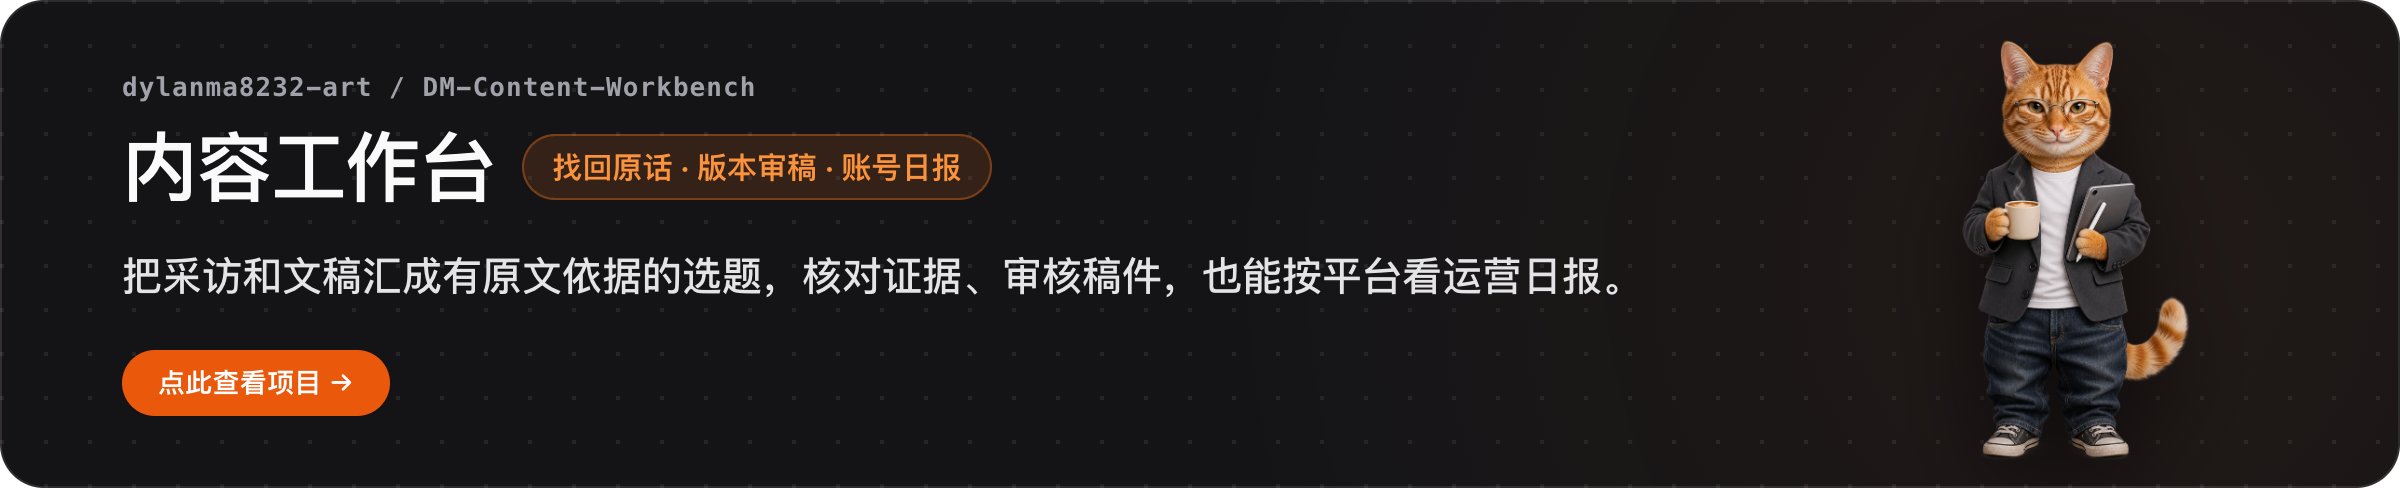
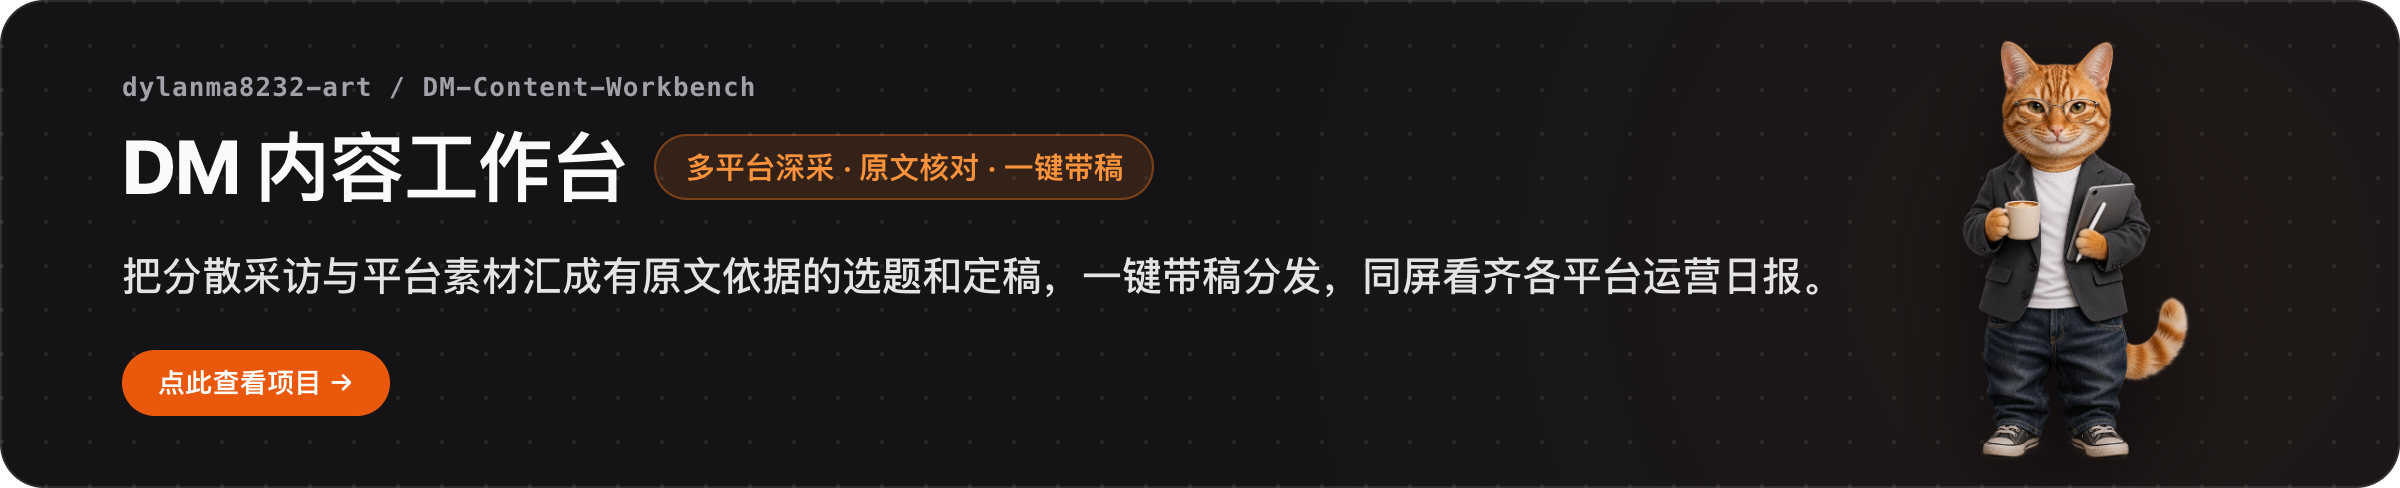
docs(profile): refresh DM-Content-Workbench v2.0 project card

Changed region(s): [[0.0625, 0.5225, 0.75, 0.6148], [0.0312, 0.2766, 0.5, 0.4303]]

diff --git a/README.md b/README.md
@@ -28,8 +28,8 @@
 </p>
 
 <p>
-  <a href="https://github.com/dylanma8232-art/DM-Content-Workbench#gh-light-mode-only"><img alt="内容工作台（找回原话 · 版本审稿 · 账号日报）— 把采访和文稿汇成有原文依据的选题，核对证据、审核稿件，也能按平台看运营日报。" src="assets/cards/card-content-workbench-light.png#gh-light-mode-only" width="100%"></a>
-  <a href="https://github.com/dylanma8232-art/DM-Content-Workbench#gh-dark-mode-only"><img alt="内容工作台（找回原话 · 版本审稿 · 账号日报）— 把采访和文稿汇成有原文依据的选题，核对证据、审核稿件，也能按平台看运营日报。" src="assets/cards/card-content-workbench-dark.png#gh-dark-mode-only" width="100%"></a>
+  <a href="https://github.com/dylanma8232-art/DM-Content-Workbench#gh-light-mode-only"><img alt="DM 内容工作台（多平台深采 · 原文核对 · 一键带稿）— 把分散采访与平台素材汇成有原文依据的选题和定稿，一键带稿分发，同屏看齐各平台运营日报。" src="assets/cards/card-content-workbench-light.png#gh-light-mode-only" width="100%"></a>
+  <a href="https://github.com/dylanma8232-art/DM-Content-Workbench#gh-dark-mode-only"><img alt="DM 内容工作台（多平台深采 · 原文核对 · 一键带稿）— 把分散采访与平台素材汇成有原文依据的选题和定稿，一键带稿分发，同屏看齐各平台运营日报。" src="assets/cards/card-content-workbench-dark.png#gh-dark-mode-only" width="100%"></a>
 </p>
 
 ---
